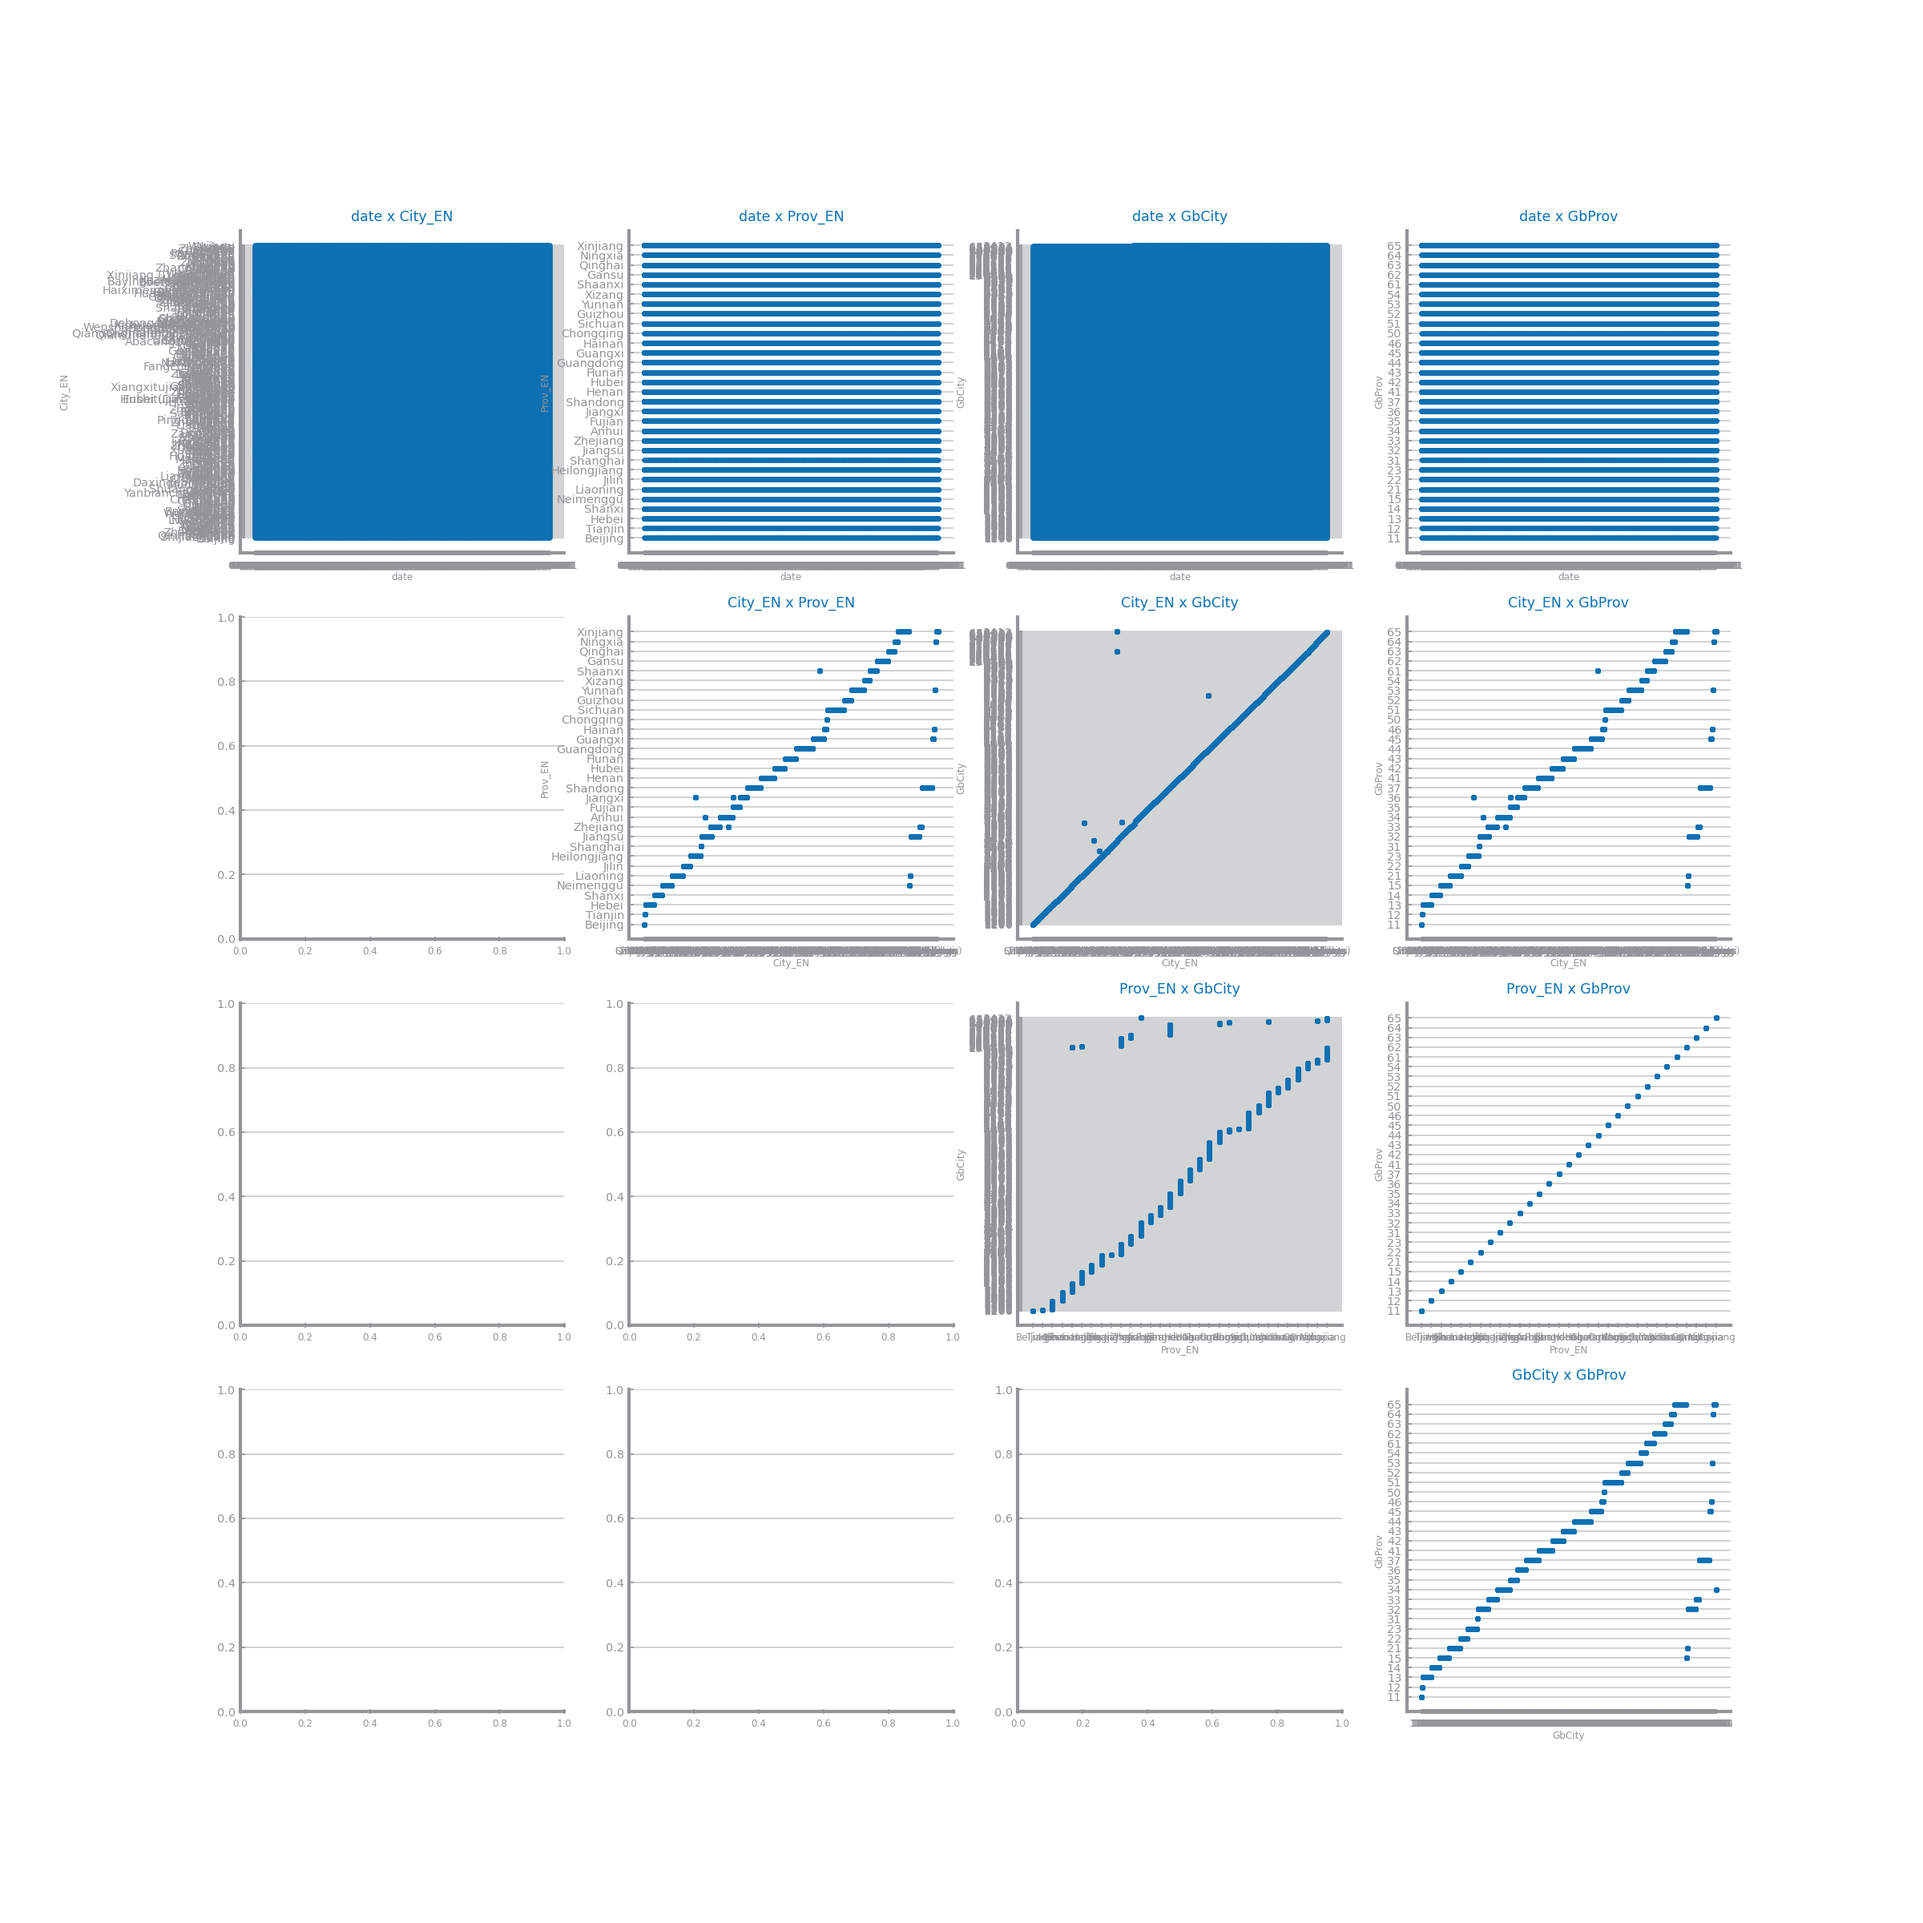
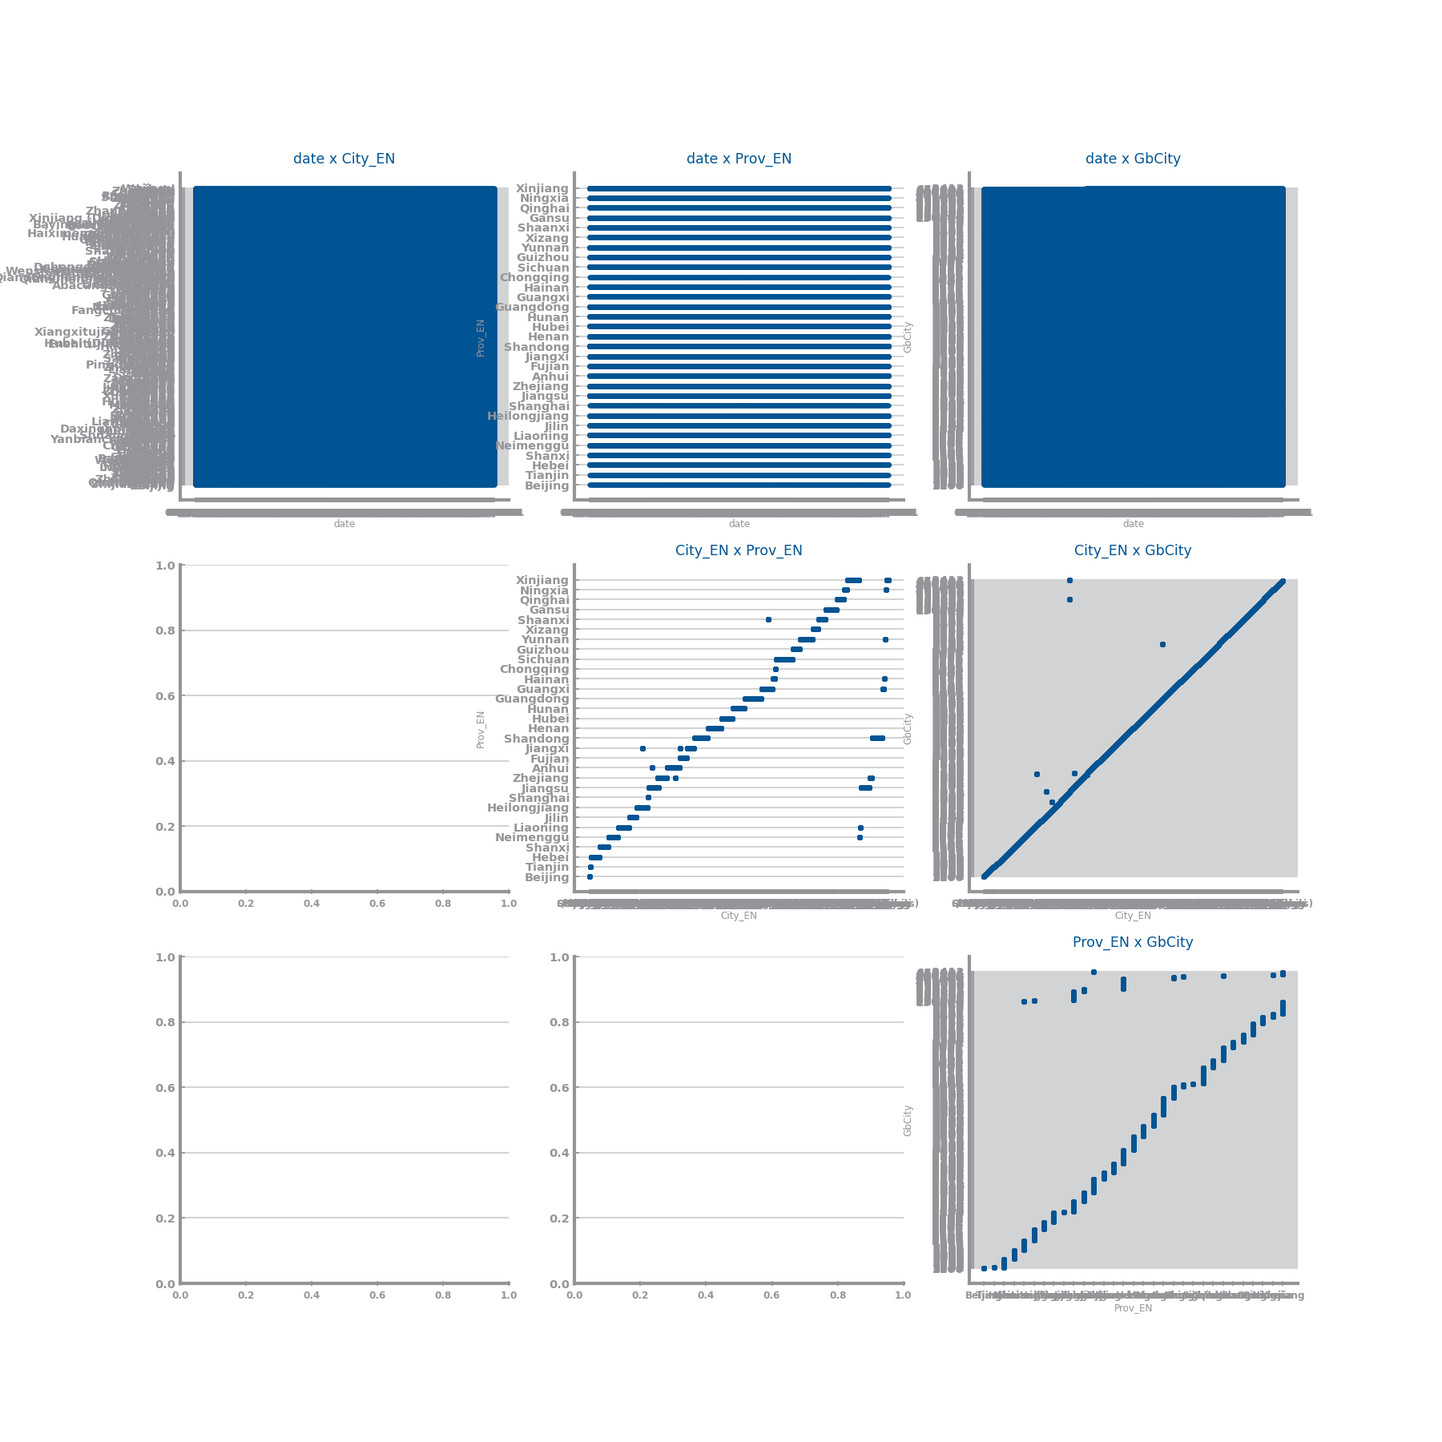
Fixed ds_charts and added some granularity bins/changed the Numeric variables text

diff --git a/ds_charts.py b/ds_charts.py
@@ -265,9 +265,9 @@ def get_variable_types(df: DataFrame) -> dict:
             df[c].astype('bool')
         elif df[c].dtype == 'datetime64':
             variable_types['Date'].append(c)
-        elif df[c].dtype == 'int':
+        elif df[c].dtype == 'int64':
             variable_types['Numeric'].append(c)
-        elif df[c].dtype == 'float':
+        elif df[c].dtype == 'float64':
             variable_types['Numeric'].append(c)
         else:
             df[c].astype('category')

diff --git a/DataGranularity_Set1/granularity_study_set1.py b/DataGranularity_Set1/granularity_study_set1.py
@@ -12,7 +12,7 @@ if [] == variables:
     raise ValueError('There are no numeric variables.')
 
 rows = len(variables)
-bins = (10, 100, 1000)
+bins = (2, 5, 10, 100, 1000)
 cols = len(bins)
 fig, axs = subplots(rows, cols, figsize=(cols*HEIGHT, rows*HEIGHT), squeeze=False)
 
